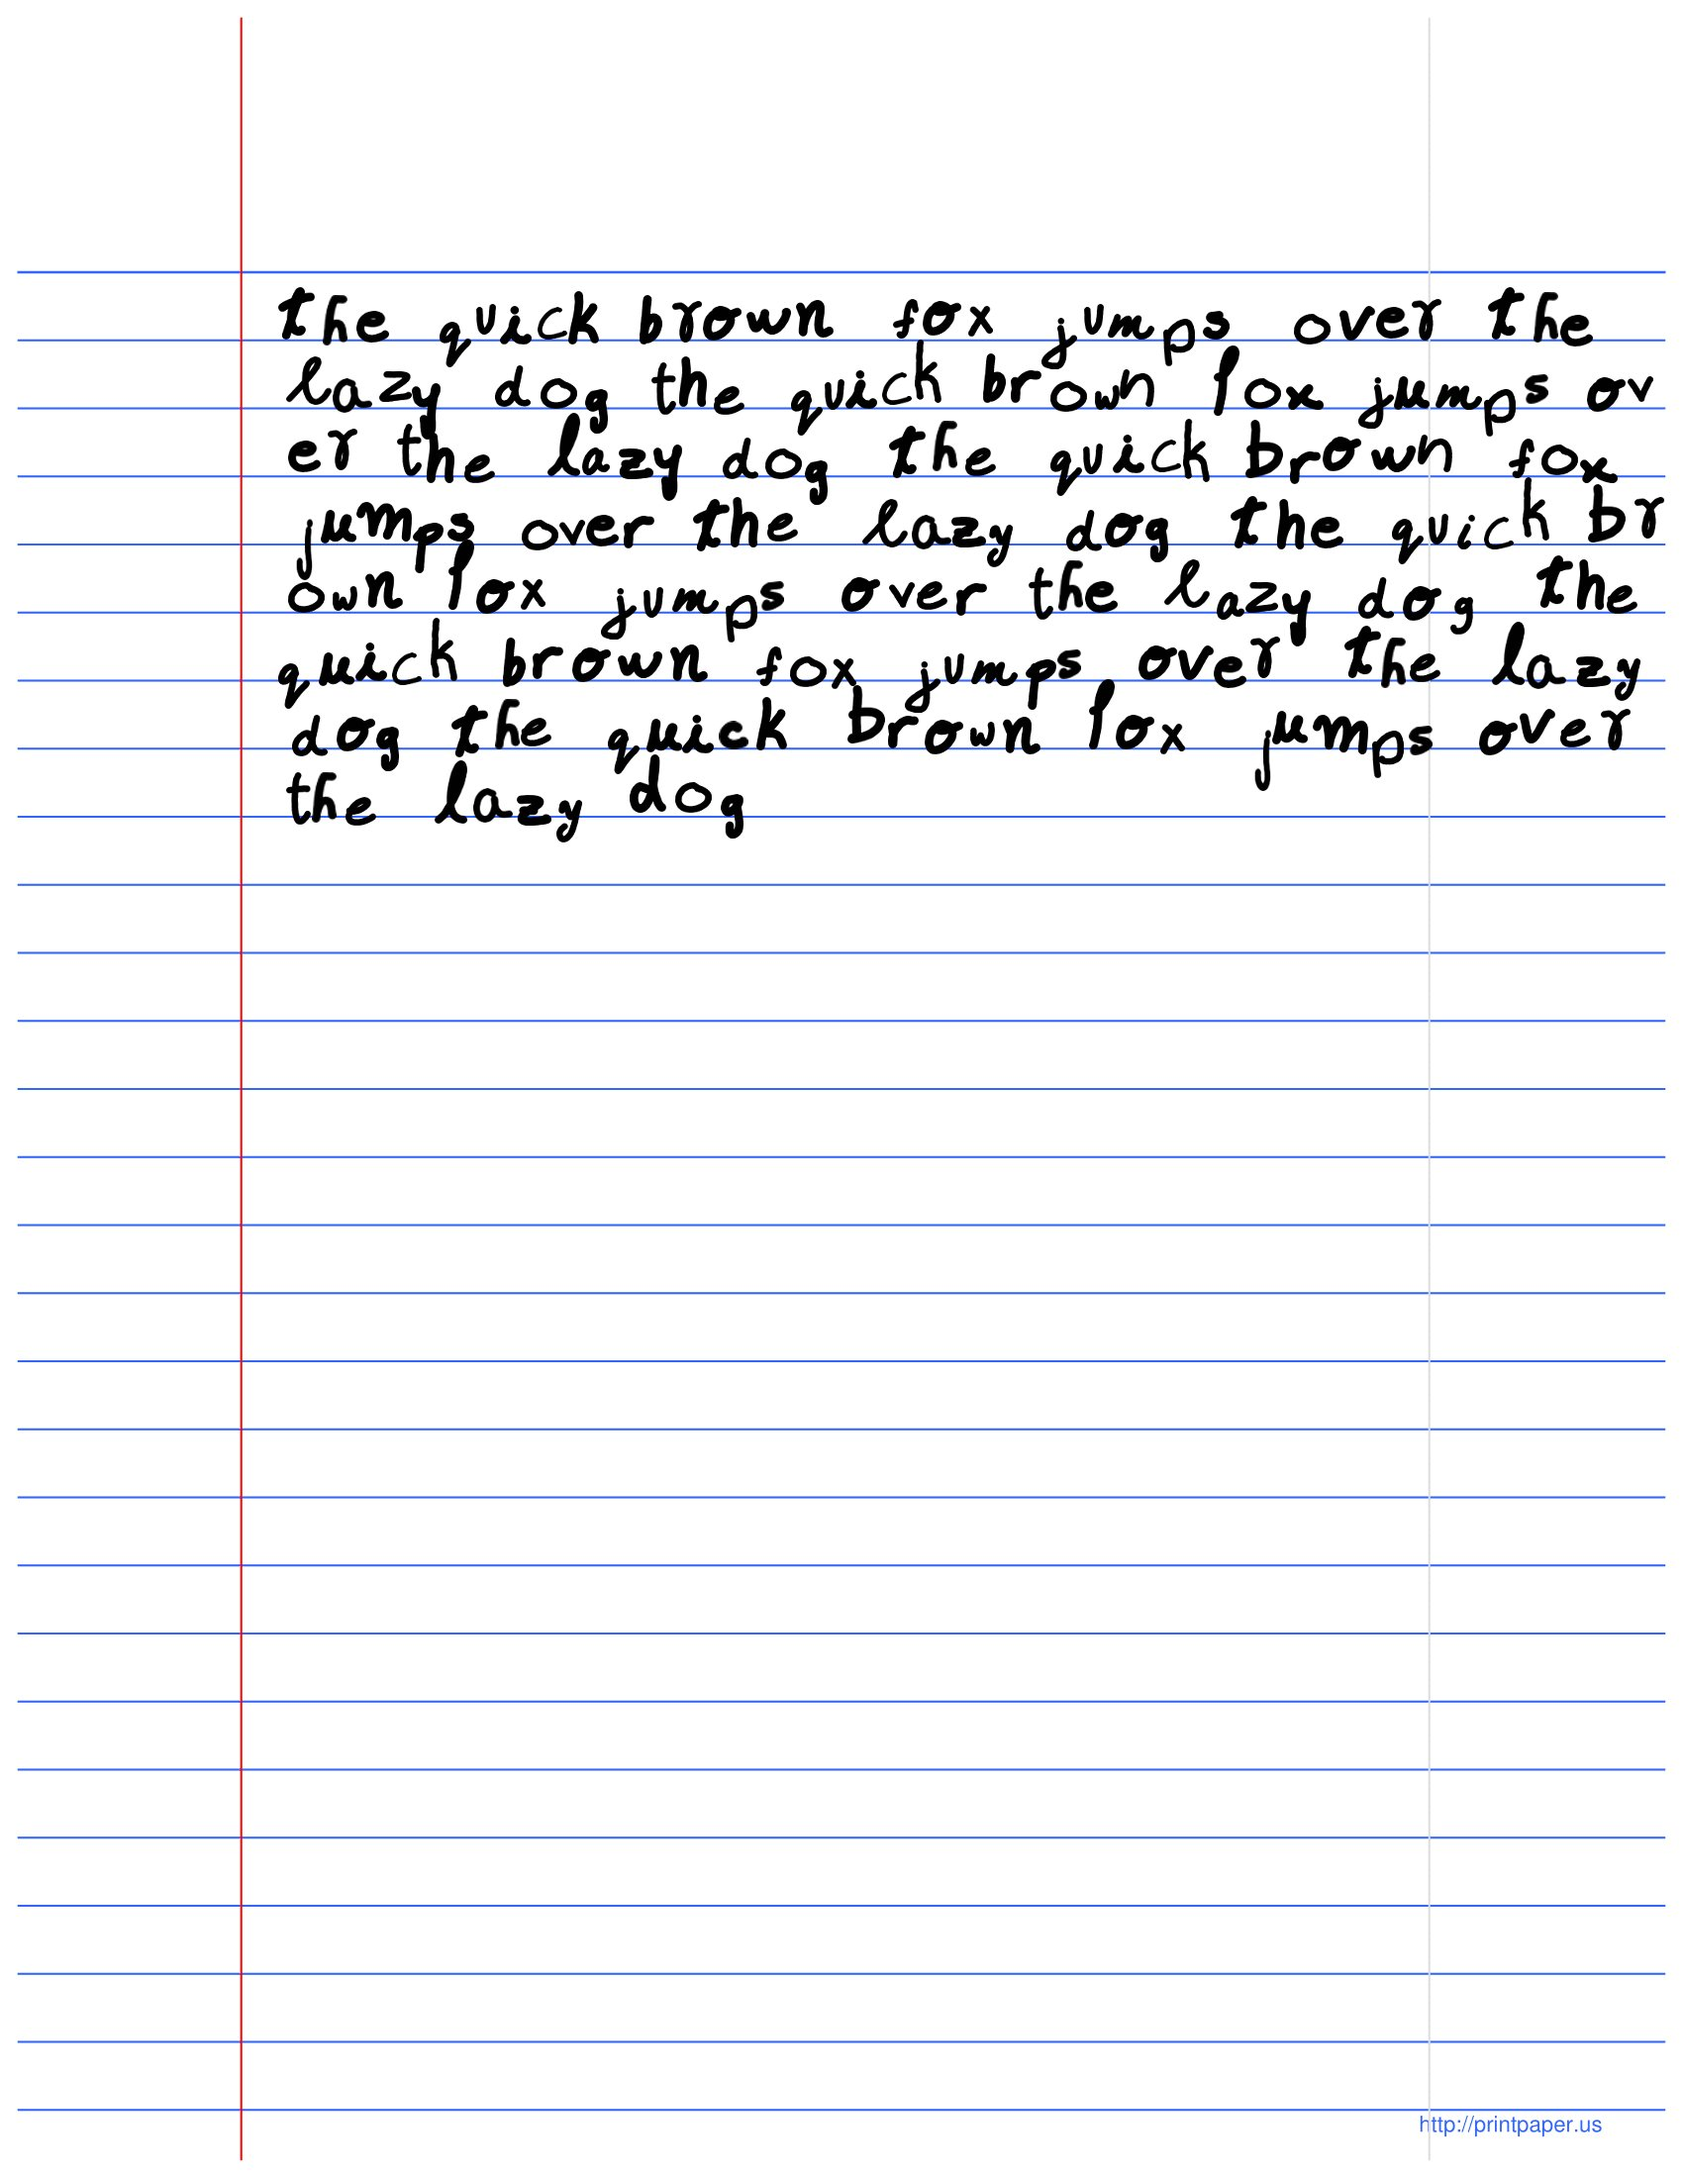
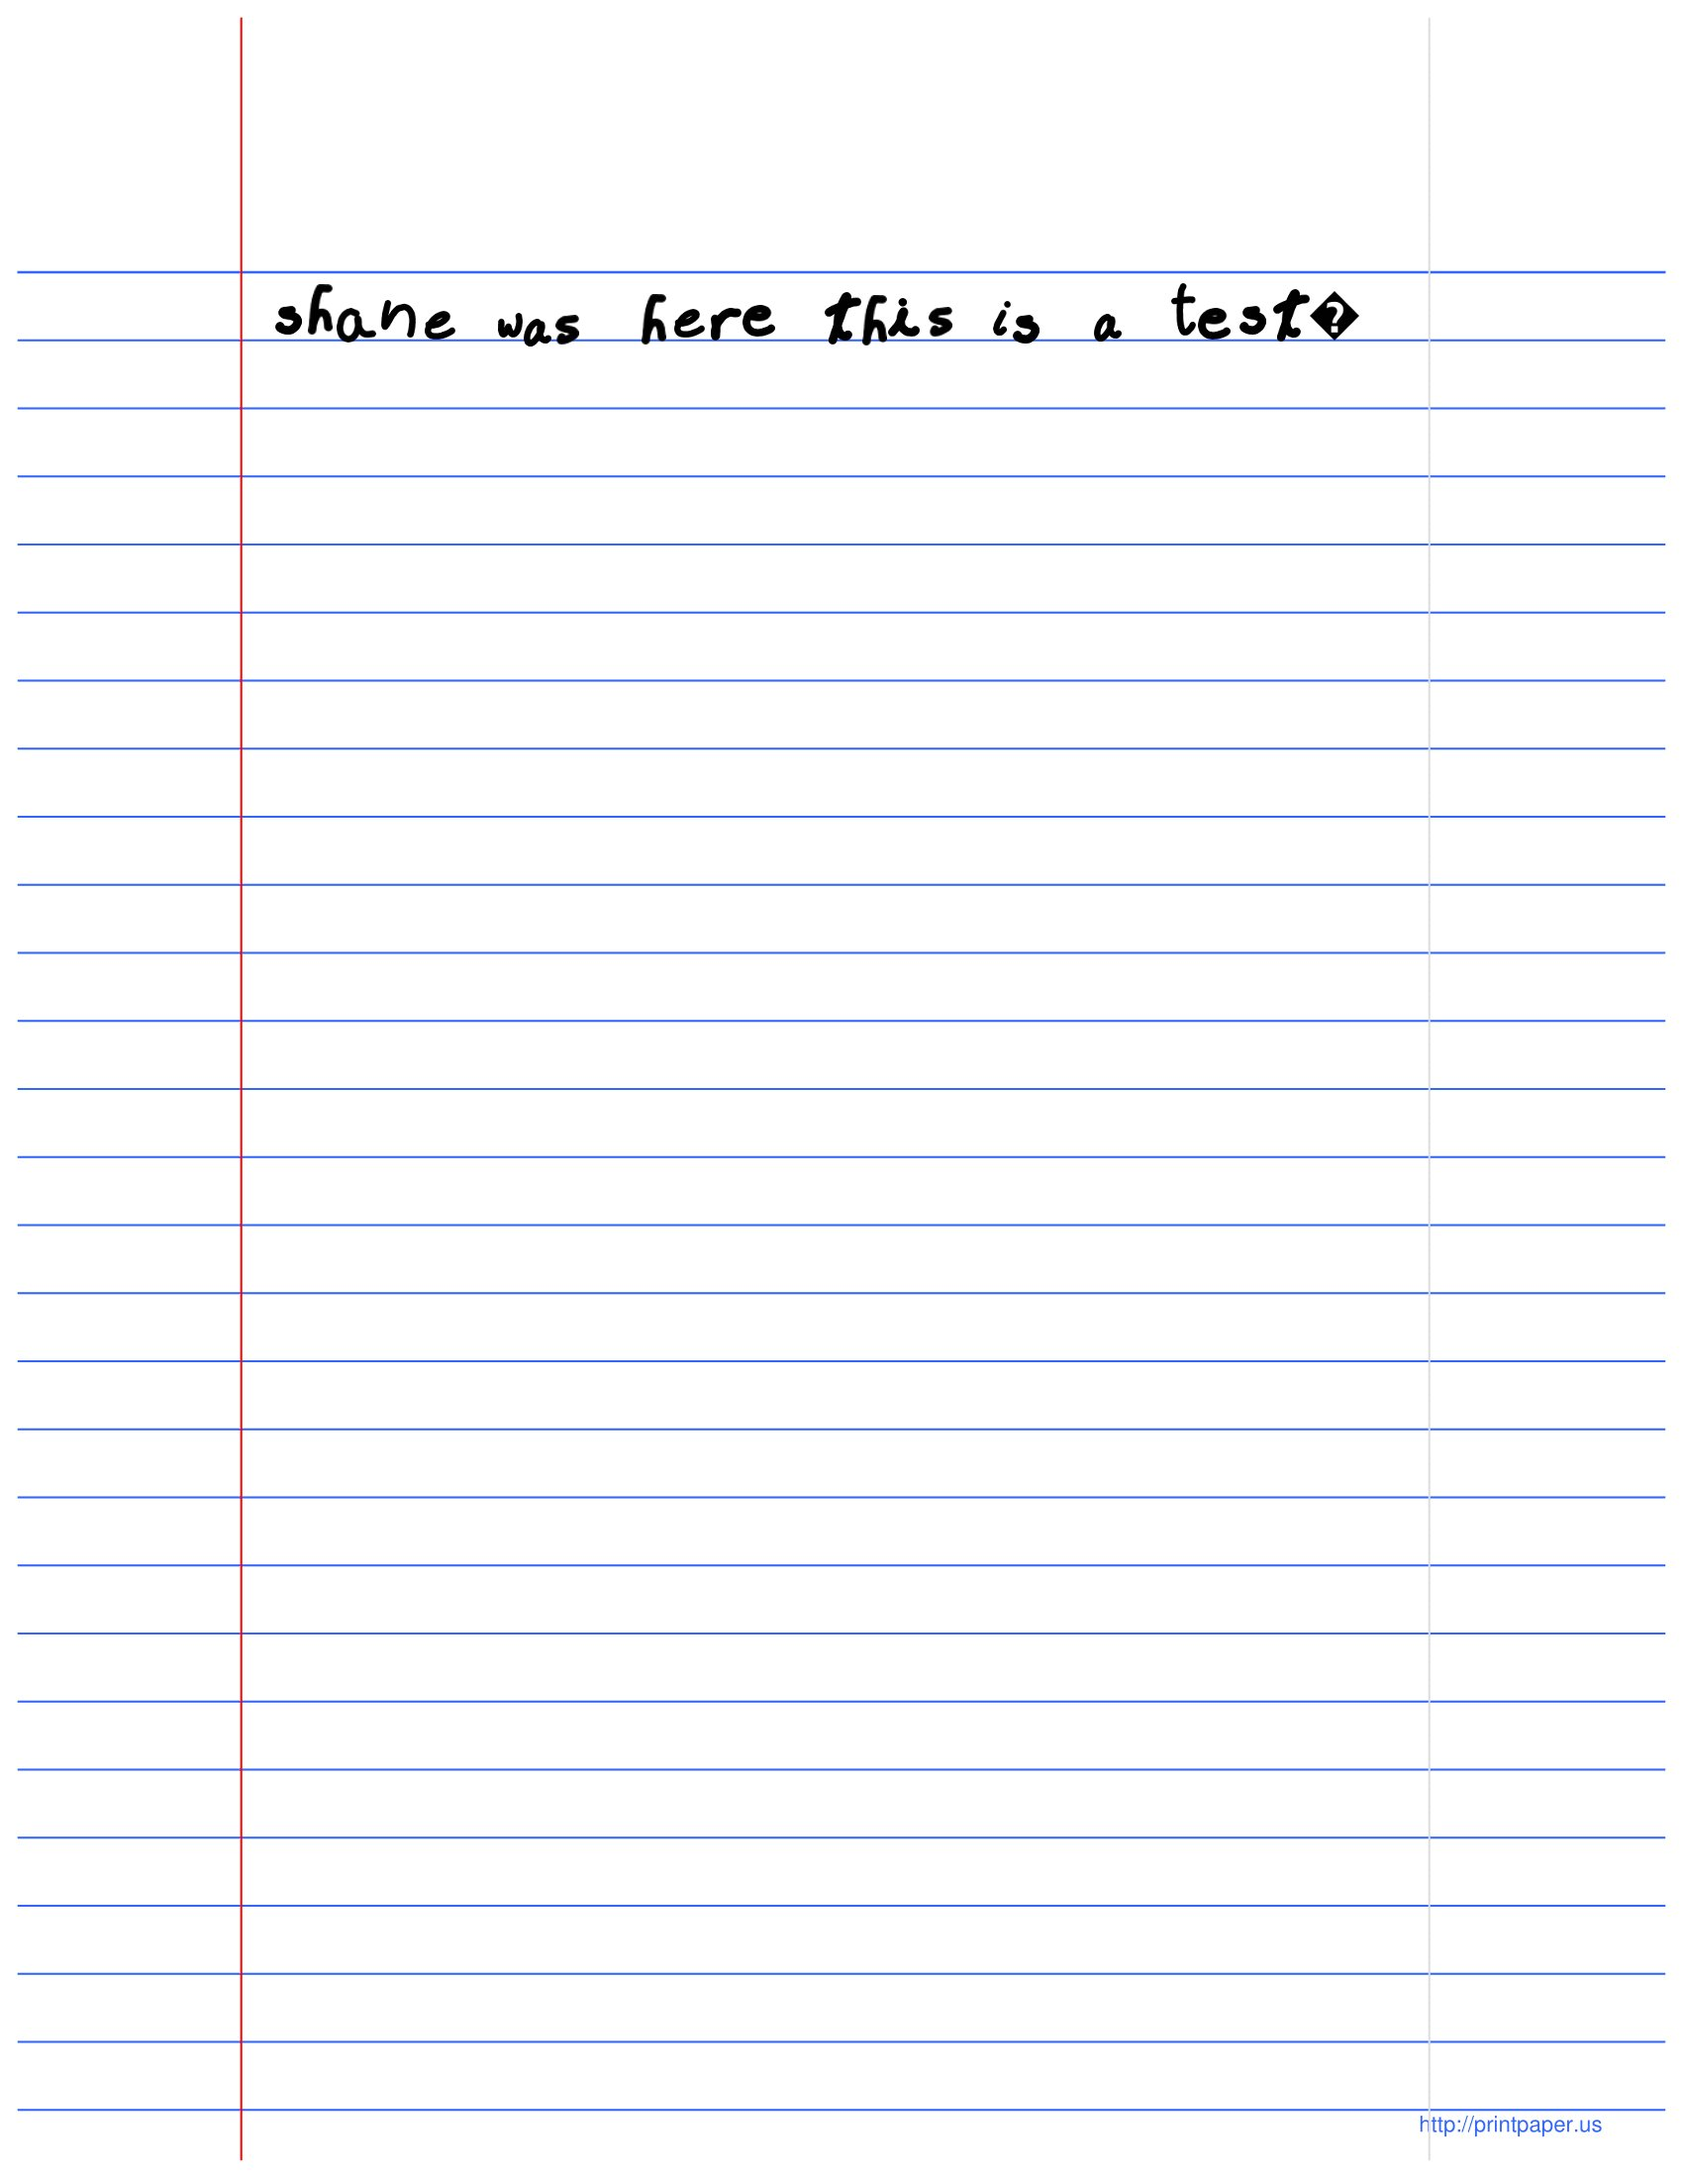
Hella formatting

Changed region(s): [[0.1559, 0.1236, 0.9976, 0.4018]]

diff --git a/main.py b/main.py
@@ -7,31 +7,37 @@ def main():
 
 	canvas, alphabetDict0, alphabetDict1 = setup()
 
-	sentence = "the quick brown fox jumps over the lazy dog the quick brown fox jumps over the lazy dog the quick brown fox jumps over the lazy dog the quick brown fox jumps over the lazy dog the quick brown fox jumps over the lazy dog the quick brown fox jumps over the lazy dog "
+	documentFile = open("document.txt", "r")
 
-	# while(True):
-	paper = pygame.image.load("assets/paper.png")
-	canvas.blit(paper, (0,0))
-
+	document = documentFile.read()
 	
-	displaySentence(canvas, sentence, alphabetDict0, alphabetDict1)
+	#Our college ruled 8.5x11
+	paper = pygame.image.load("assets/paper.png")
+	
+	#x,y coords are top left of image
+	canvas.blit(paper, (0,0))
+	
+	displayDocument(canvas, document, alphabetDict0, alphabetDict1)
 	
 	pygame.display.update()
 
-	pygame.image.save(canvas, "screenshot.jpeg")
+	pygame.image.save(canvas, "output.jpeg")
 	
 	#Open the 8.5x11 with firefox
-	bashCommand = "firefox screenshot.jpeg"
+	bashCommand = "firefox output.jpeg"
 	
 	process = subprocess.Popen(bashCommand.split(), stdout=subprocess.PIPE)
 	output, error = process.communicate()
 	exit(0)
 
-def displaySentence(canvas, sentence, alphabetDict0, alphabetDict1):
+def displayDocument(canvas, document, alphabetDict0, alphabetDict1):
+	#The total space from the start of our current horizontal line
 	collectiveSpacing = 0
+
+	#Current horizontal line
 	currentLine = 0
 
-	for char in list(sentence):
+	for char in list(document):
 			
 		#Pick a random dict to use for this specific char
 		dictNum = random.randint(0, 1)
@@ -46,31 +52,39 @@ def displaySentence(canvas, sentence, alphabetDict0, alphabetDict1):
 
 			#Check if we're about to go over the page
 			if(xStart + collectiveSpacing + letterGap + alphabetDict[char].get_rect().size[0] > canvasWidth):
-				#Move to next line
+				#Move to next horizontal line
 				currentLine += 1
 
-				#Reset spacing
+				#Reset total spacing
 				collectiveSpacing = 0
 
 				#add random margin on new line
 				collectiveSpacing += random.uniform(0, 20)
 
-			#Align to bottom of line and keep even spacing and varying height, also check if our char can go below line
+			#Align to bottom of line and keep varying spacing as well as varying height, also check if our char can go below line (e.g like "j")
 			offCenterChar = 0
 			if(char in offCenterCharList):
 				offCenterChar = 1
-			
 
 			collectiveSpacing += letterGap
+			
 			canvas.blit(alphabetDict[char], (xStart + collectiveSpacing, yStart + offCenterChar*alphabetDict[char].get_rect().size[1]/2 + currentLine * lineGap - alphabetDict[char].get_rect().size[1]  + random.uniform(-7, 7)))
+			
+			#Add a gap to compensate for the image length
 			collectiveSpacing += alphabetDict[char].get_rect().size[0]
+		
 		#It's a space
 		elif(char == " "):
+			#A random sized space
 			collectiveSpacing += space * random.uniform(0.8, 1.5)
-		#TODO: ELSE: PUT "?" CHAR THERE OR SOMETHING
+		
+		#If char not in our dict, put unknown char symbol
 		else:
 			unknownChar = pygame.image.load("assets/unknownChar.png")
+			
 			canvas.blit(unknownChar, (xStart + collectiveSpacing, yStart + currentLine * lineGap - unknownChar.get_rect().size[1]))
+			
+			#Add a gap to compensate for the image length
 			collectiveSpacing += unknownChar.get_rect().size[0]
 
 

diff --git a/globals.py b/globals.py
@@ -1,14 +1,20 @@
 WHITE = (255, 255, 255)
 
-#8.5x11 is 2550 * 3300
 canvasWidth = 1700
 canvasHeight = 2200
 
+#Size of a space
 space = 40
 
+#List of chars which can go below the bottom horizontal line
 offCenterCharList = ["y", "p", "g", "j", "q"]
 
+#Where the x coord starts
 xStart = canvasWidth/6 - 10
+
+#Where the y coord starts
 yStart = canvasHeight/6 - 22
+
+#Distance between horizontal lines
 lineGap = 69
 
